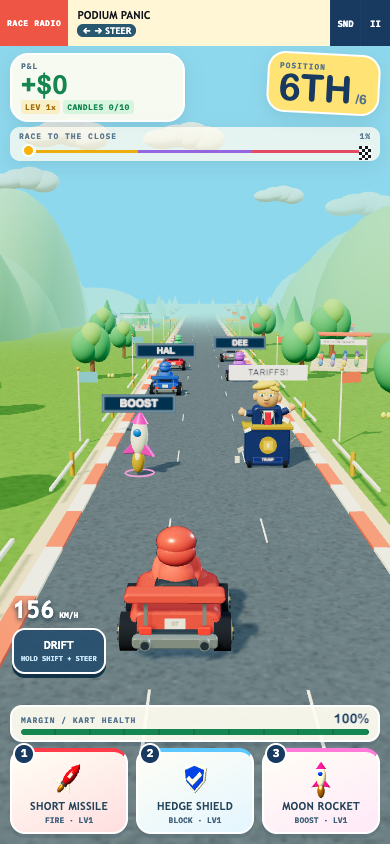
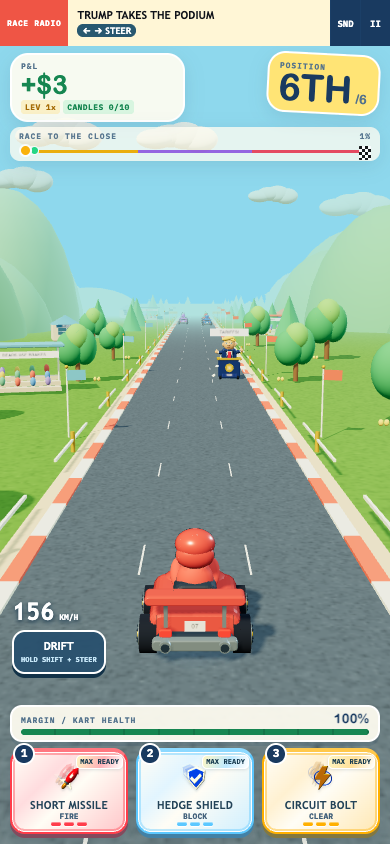
docs(kart): record item feedback verification and previews

diff --git a/docs/design/item-stacking-verification.md b/docs/design/item-stacking-verification.md
@@ -1,0 +1,33 @@
+# Charged item stacking verification
+
+## What changed
+
+Matching pickups now show a distinct collect, upgrade or MAX cash receipt. The held slot shows one, two or three level marks, layered icon art and a steady MAX READY badge. Consumption clears its level marks immediately. Higher levels play rising chimes. Each of the seven item kinds has a different small pattern around or behind the kart. The effects reuse one 24-instance pool. Circuit Breaker's expanding pulse is reserved for actual use.
+
+The HUD uses tactile surfaces and restrained foil shading inspired by ThreeUI. There is no ThreeUI package, Pro source, extra renderer, dependency or new runtime network request. The shared existing game state and item rules remain authoritative. Trump construction and podium hopping are unchanged.
+
+## Design and review
+
+Two isolated design candidates explored explicit receipts and snapshot-derived transitions. The independent cross-judge chose explicit receipts. Persistent badges still derive from inventory, and scalar levels are copied before in-place upgrades. One implementation owner handled the coupled source. Browser verification and final integration remained separate.
+
+Independent source review found two receipt lifecycle defects. Changing reduced motion erased the receipt, and finish ticks erased the prize. Both were reproduced by failing tests and fixed. A fresh follow-up review confirmed both fixes. Full browser acceptance then found drift release still called the removed effect API. That caller now sends an explicit turbo receipt; acceptance checks that the effect appears without consuming an item. The old effect API has no retained compatibility shim.
+
+Visual inspection found crowded level marks. Dedicated rows now separate badges, names, actions and level marks. A new 320x568 check also caught conservative kart bounds extending below the health strip. Compact portrait camera aim now keeps the bounds above that strip. Desktop and normal portrait keep their established camera settings. Short landscape uses the wider camera even below a 1.8 aspect ratio. A final source review also caught the 600–720-pixel landscape grid cascade; explicit compact row and column ownership fixes it.
+
+## Results
+
+The standalone build and 43 Node tests passed. All nine browser scripts passed, including the new stacking and actual-touch cases. The source review findings were fixed and checked independently. Preview capture also uses a test-only preserved WebGL drawing buffer and schedules the final frame explicitly; the production renderer keeps its normal buffer behavior.
+
+## Reproduce
+
+Run `npm run build`, `npm test`, and `npm run test:browser`. The item script is `tests/item-stacking.cjs`. Tests execute the generated standalone HTML. `PLAYWRIGHT_MODULE` can identify an existing Playwright installation.
+
+Coverage includes all seven items through LV1, LV2, LV3 and MAX cash conversion, keyboard consumption, actual touch consumption, refused shield/repair, full-rack rejection, two matching contacts in one simulation step, pause/resume, same-position reset, reduced-motion changes, finish prize text, and repeated-event resource bounds. Layout checks cover 1440x900, 390x844, 320x568, 844x390 and 640x360. Static screenshots stop the test page's animation scheduler and advance it explicitly; keyboard/touch and race tests retain the actual scheduler.
+
+The existing suites cover collision rules, replay, a protected three-sector race, news placement, shader compilation, graphics settings, object cleanup and Speedway/Circuit Breaker ticker stalls. Protection in the full-race fixture checks progression rather than competitive difficulty.
+
+## Limits
+
+Headless tests use software WebGL. Resource bounds and behavior are checked; no device FPS or universal smoothness claim is made. Effects are short and localized, and at most 24 instances exist. Broader environment and speedometer redesigns remain separate follow-ups.
+
+[Desktop preview](../../outputs/bull-run-3d-preview.png) · [Phone preview](../../outputs/kart-mobile-preview.png) · [Upgrade effect](../../outputs/kart-item-upgrade-preview.png)

diff --git a/docs/superpowers/plans/2026-11-01-item-stacking.md b/docs/superpowers/plans/2026-11-01-item-stacking.md
@@ -38,22 +38,26 @@ Files: new work/3d/item-feedback.js and tests/item-feedback.test.cjs; modify wor
 
 Interfaces: ItemFeedback record {type,slot,kind,fromLevel,level,bonus}, types collect/upgrade/max-bonus/use. G3.emitItemFeedback(event) replaces G3.emit at all callers. Renderer diagnostics effects.itemFeedback includes type,kind,level,age,particleCount for bounded lifetime verification. Persistent slot badge and pips reflect inventory.
 
-- [ ] Write behavioral unit tests for collect, in-place upgrade snapshots, MAX cash receipt, failed pickup/use and consumption. Run to confirm missing behavior.
-- [ ] Implement pure classification, boundary dispatch, truthful receipts, tiered sound, slot paint and bounded cues. Replace inherited cosmetic duplicates using asserted build hooks.
-- [ ] Reuse the renderer pool with kind-specific patterns and level intensity. Explicitly clear on reset/mode/reduced-motion and freeze during pause.
-- [ ] Run unit tests and builder. Confirm generated HTML uses the new path and no extra network dependency.
-- [ ] Commit this verified unit after browser integration passes.
+- [x] Write behavioral unit tests for collect, in-place upgrade snapshots, MAX cash receipt, failed pickup/use and consumption. Run to confirm missing behavior.
+- [x] Implement pure classification, boundary dispatch, truthful receipts, tiered sound, slot paint and bounded cues. Replace inherited cosmetic duplicates using asserted build hooks.
+- [x] Reuse the renderer pool with kind-specific patterns and level intensity. Explicitly clear on reset/mode/reduced-motion and freeze during pause.
+- [x] Run unit tests and builder. Confirm generated HTML uses the new path and no extra network dependency.
+- [x] Commit this verified unit after browser integration passes.
 
 ### Task 2: Verify the built game and deliver
 
 Files: tests/browser-lib.cjs, new tests/item-stacking.cjs, package.json, docs/design and outputs previews.
 
-- [ ] Add real-game browser cases for the Review Focus and seven item progressions. Run the feature assertion before implementation to observe failure.
-- [ ] Run the feature check after implementation, inspect screenshots and fix findings at their source.
-- [ ] Run npm test and all browser scripts including Speedway/Circuit Breaker stalls; check build reproducibility and git diff --check.
-- [ ] Obtain independent source review, address material findings with regression checks.
+- [x] Add real-game browser cases for the Review Focus and seven item progressions. Run the feature assertion before implementation to observe failure.
+- [x] Run the feature check after implementation, inspect screenshots and fix findings at their source.
+- [x] Run npm test and all browser scripts including Speedway/Circuit Breaker stalls; check build reproducibility and git diff --check.
+- [x] Obtain independent source review, address material findings with regression checks.
 - [ ] Commit, copy the user-facing game/screenshots, push the current feature branch and update PR #1 without merging.
 
 ## Design synthesis
 
 Root selected A's explicit receipt interface for fewer moving parts, with B's inventory-derived persistent presentation and mutation-boundary copies. Both agree on fixed pools and explicit lifecycle. Independent cross-judge result is recorded with verification.
+
+## Verification outcome
+
+The build is reproducible. All 43 Node tests and nine browser scripts passed. The final stacking script covers five viewports and actual touch use. Root inspected all final screenshots. Reviews found receipt lifecycle and compact-landscape issues, which were fixed and rechecked. Full race acceptance caught an old drift effect caller; it is migrated and covered.

diff --git a/docs/design/kart-verification.md b/docs/design/kart-verification.md
@@ -7,8 +7,8 @@ The 3D edition gained handling momentum, a shared bank/ramp surface, a damped ch
 ## Automated evidence
 
 - Python standalone build succeeds. New integration hooks assert expected replacement counts.
-- `npm test` passes 36 numerical behavior tests for handling, course continuity and launches, camera bounds, relative-motion contacts and fixed stepping.
-- `npm run test:browser` drives the generated artifact through eight browser scripts. Checks cover keyboard and actual two-finger touch drift, all seven items and 13 hazard models, jump buffering, collision protection and clearance rules, pause/blur, results/replay, a protected three-sector race, portrait/landscape control bounds, top-strip news, shader compilation, effect limits, world-cue orientation, graphics controls and resource stability.
+- `npm test` passes 43 behavior tests for handling, course continuity and launches, camera bounds, relative-motion contacts and fixed stepping.
+- `npm run test:browser` drives the generated artifact through nine browser scripts. Checks cover keyboard and actual two-finger touch drift, all seven items and 13 hazard models, jump buffering, collision protection and clearance rules, pause/blur, results/replay, a protected three-sector race, portrait/landscape control bounds, top-strip news, shader compilation, effect limits, world-cue orientation, graphics controls and resource stability.
 - The protected full race uses test-only centering and protection. It verifies race progression, not difficulty or competitive balance.
 - Desktop, 390x844 portrait and 844x390 landscape screenshots were inspected. Camera framing was corrected after actual projected kart bounds showed HUD overlap.
 - The graphics control was checked through native keyboard typeahead and a real-origin persistence reload.
@@ -32,3 +32,7 @@ Feature branch `kart-feel-upgrade` is available in [PR 1](https://github.com/tra
 ## Playtest follow-up
 
 Speedway/Circuit Breaker stalls were traced to unbounded hidden ticker growth. The fix suspends unmeasurable tickers and caps the queue. A separate source review found no actionable issue. See [the investigation and measurements](../performance/2026-11-01-stalls.md).
+
+## Charged item follow-up
+
+The 3D edition now distinguishes collection, upgrades, MAX cash bonuses and use, with visible tier marks, charged badges, bounded item effects and tiered sounds. See [the item stacking verification](item-stacking-verification.md) for coverage, review findings and limits.

diff --git a/docs/superpowers/specs/2026-11-01-item-stacking-design.md b/docs/superpowers/specs/2026-11-01-item-stacking-design.md
@@ -16,7 +16,7 @@ A uses explicit collect, upgrade, max-bonus and use receipts captured at mutatio
 
 ## Data and ownership
 
-S.slots remains authoritative. ItemFeedback is a tagged record with type, slot, kind, fromLevel, level and bonus. At most three transient HUD records and one renderer record exist. Copy numeric levels before pickupBase mutates them. Use a pure outcome classifier with a small public surface. The existing wrappers own dispatch. The renderer reuses its 24-instance pool and updates all shapes through a kind registry; no allocations or new scene nodes per event. Slot paint derives labels/segments from S.slots.
+S.slots remains authoritative. ItemFeedback is a tagged record with type, slot, kind, fromLevel, level and bonus. At most three transient HUD records and one renderer record exist. Copy numeric levels before pickupBase mutates them. Use a pure outcome classifier with a small public surface. The existing wrappers own dispatch. Drift release uses the same renderer with a separate turbo receipt containing kind MOON and the drift tier; it never enters slot classification or consumes inventory. The renderer reuses its 24-instance pool and updates all shapes through a kind registry; no allocations or new scene nodes per event. Slot paint derives labels/segments from S.slots.
 
 Explicitly clear feedback on reset and leaving play except pause. Pause freezes its clock and CSS animation. Reduced motion preserves badges and text while suppressing movement. Toggling it must not revive old effects. Use a local playing-time effect clock instead of the decorative ambient clock. Remove duplicate inherited pickup flashes/bursts and layout-forcing slot bumps only in the 3D build. Use exact-once generator hooks. Leave the 2D editions unchanged.
 

diff --git a/README.md b/README.md
@@ -16,7 +16,7 @@ Then visit http://localhost:8000.
 
 ## Editions
 
-- **Bull Run 3D:** the latest version, with momentum and tire grip, drift turbo tiers, a banked corner and launch ramp, a damped chase camera, animated Trump podium hazards, 3D power-ups, effects, and arcade audio.
+- **Bull Run 3D:** the latest version, with momentum and tire grip, drift turbo tiers, a banked corner and launch ramp, a damped chase camera, animated Trump podium hazards, 3D power-ups, charged item stacking, effects, and arcade audio.
 - **Bull Run Grand Prix:** the earlier colorful 2D racing edition.
 - **Midnight Exchange:** the alternative visual edition.
 
@@ -26,6 +26,7 @@ Then visit http://localhost:8000.
 - Hold Shift while steering, then release Shift: drift turbo.
 - Up arrow or Space: jump; down arrow: slide.
 - 1, 2, 3: use items; P: pause.
+- Matching pickups upgrade a held item to level 3. MAX READY shows its strongest version. Another matching pickup awards cash. Using the item consumes the slot at any level.
 - Mobile: hold a screen edge to steer. Hold DRIFT with another finger, then release it to boost.
 - Pause menu: arcade music and Standard/Economy graphics. SND button: mute music and effects.
 - The opening course includes a banked corner and an automatic launch ramp with warning signs.
